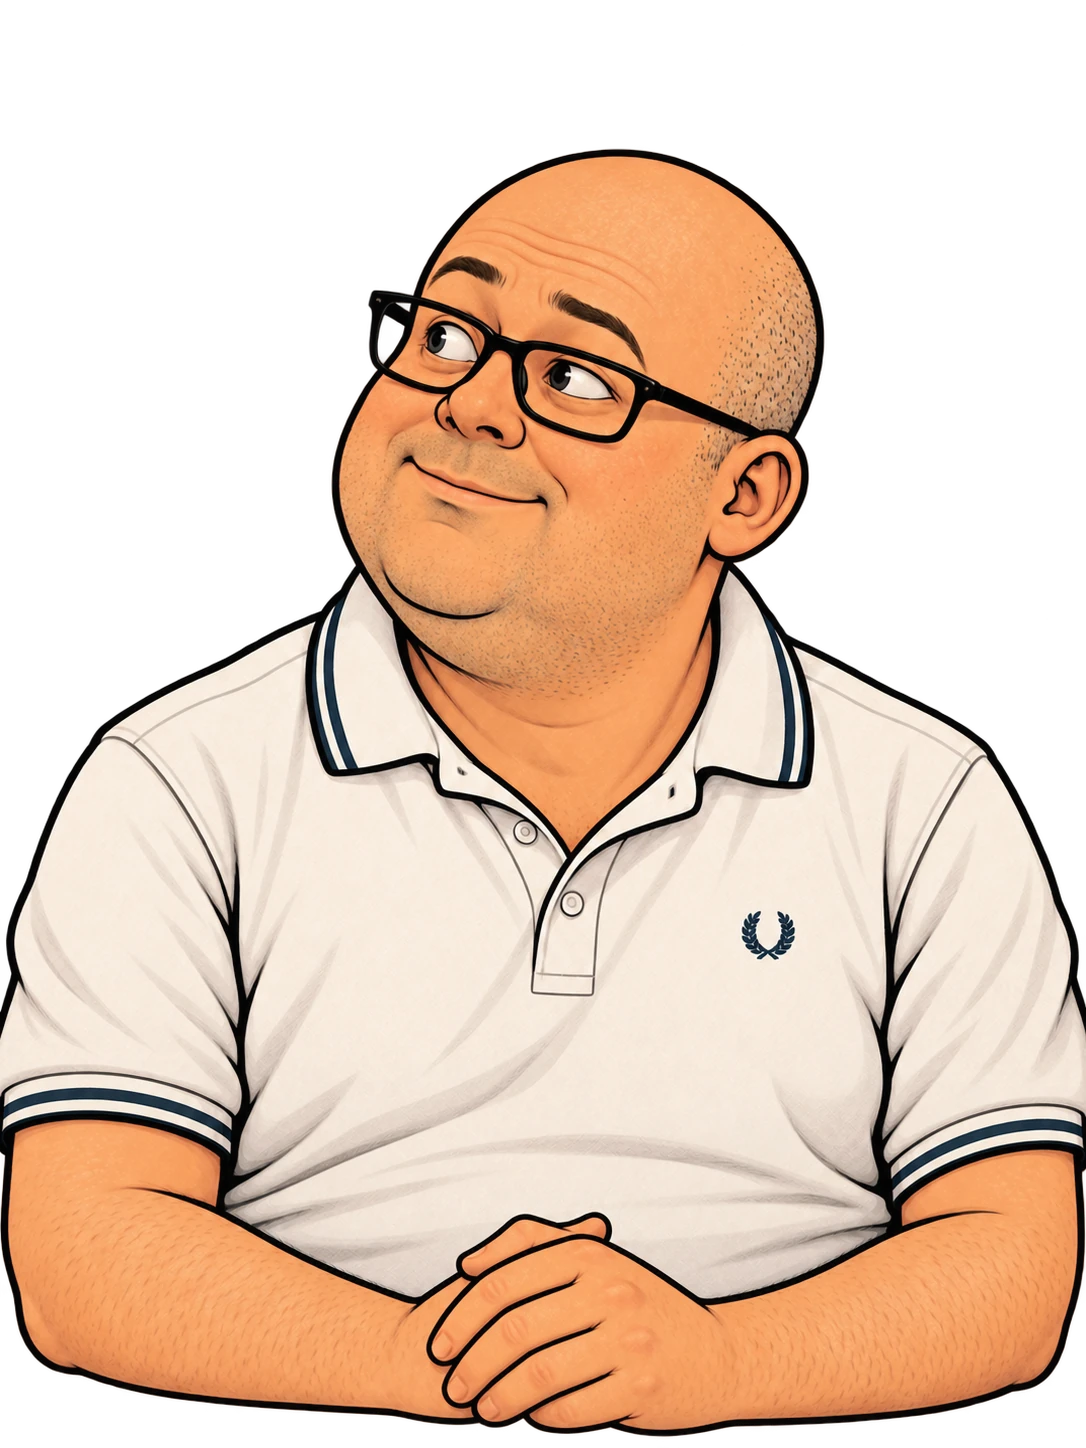
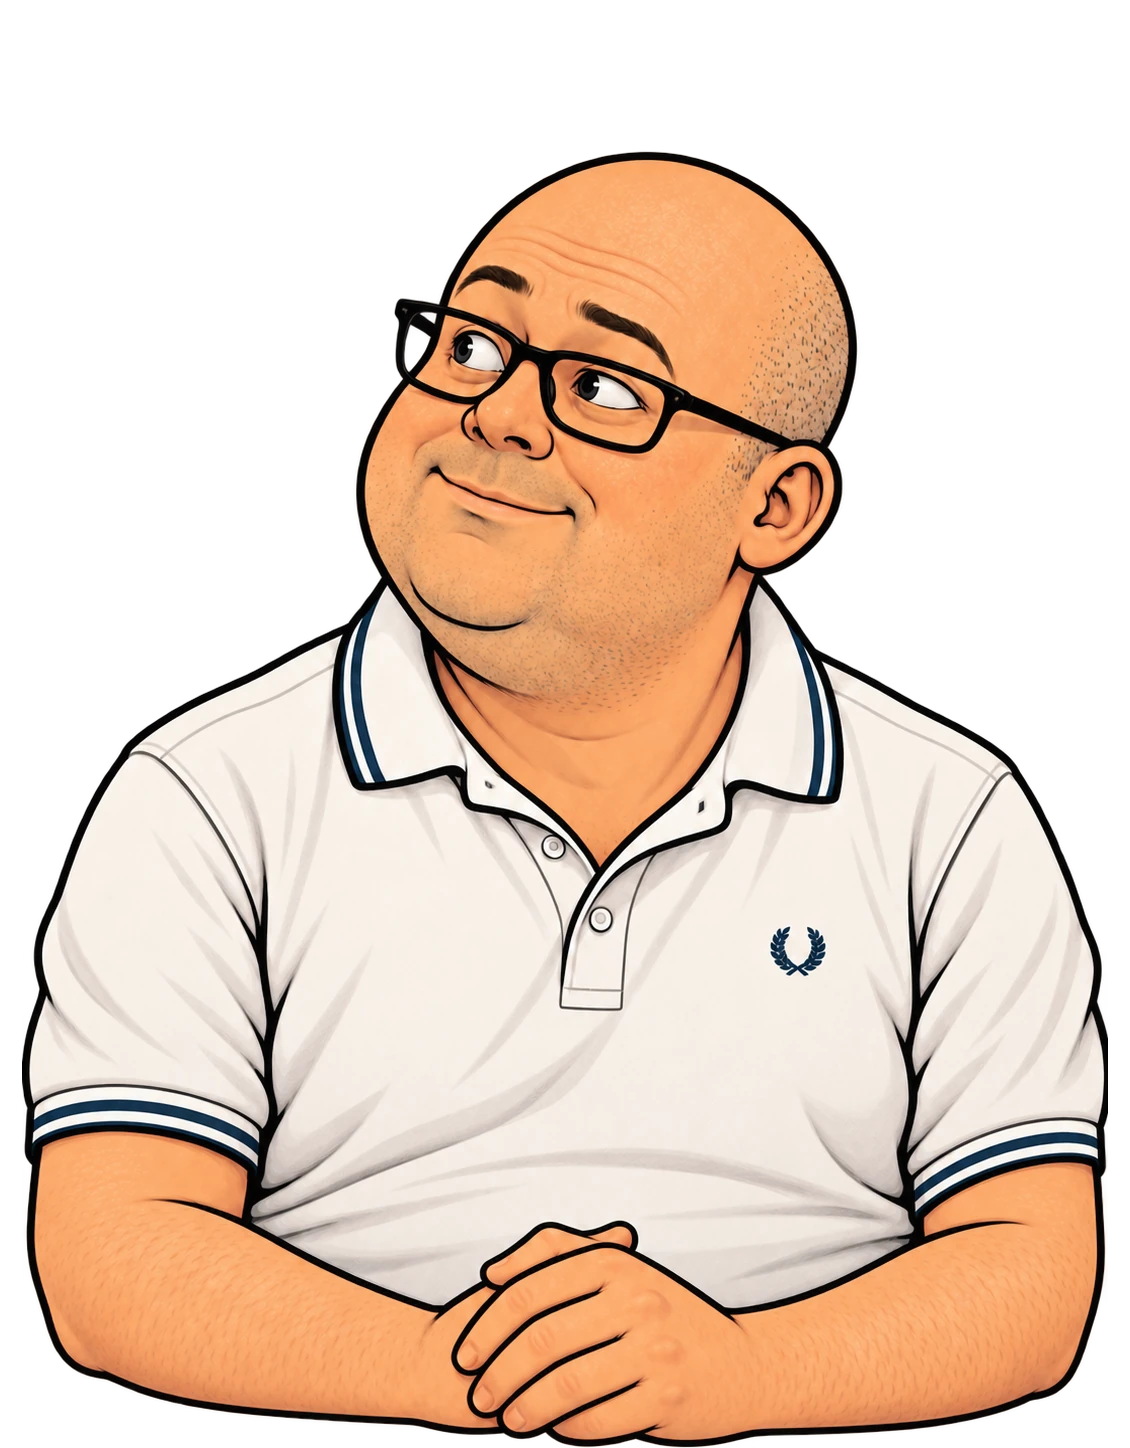
GAME-SP4.1G0A: replace Paul pleased WebP with recanvas v2; remove scale workaround

diff --git a/src/styles.css b/src/styles.css
@@ -654,17 +654,6 @@ button:active:not(:disabled) { transform: translateY(1px); }
   transform: scale(.94) !important;
 }
 
-/* GAME-SP4.1G0A: Paul's approved pleased image is tightly cut at both
- * side edges of its 1086×1448 transparent source. Give ONLY this expression
- * a restrained inset, anchored at the bottom with the other seated poses.
- * No changes to neutral/confused, David, Stephen or the common figure scale.
- * A future owner-approved re-canvas is needed if source-edge crop remains
- * conspicuous at review size. */
-#officeScreen .cast-seated #castPaul[data-seated-sprite="pleased"] .actor-portrait img {
-  transform-origin: center bottom;
-  transform: scale(.965) !important;
-}
-
 /* Listening actors retain the scene's colour treatment, but never fade
    their entire bodies: that made the bright office floor visible through them. */
 #officeScreen .cast-seated .cast-actor.is-listening {

diff --git a/src/game.js b/src/game.js
@@ -76,7 +76,7 @@
     Paul: {
       neutral: "./public/assets/generated/characters/paul-office-seated-neutral-v01.webp",
       confused: "./public/assets/generated/characters/paul-office-seated-confused-v01.webp?v=1",
-      pleased: "./public/assets/generated/characters/paul-office-seated-pleased-v01.webp?v=1"
+      pleased: "./public/assets/generated/characters/paul-office-seated-pleased-v01.webp?v=2"
     }
   };
 

diff --git a/docs/story/GAME-SP4.1G0A-PAUL-REGISTRATION.md b/docs/story/GAME-SP4.1G0A-PAUL-REGISTRATION.md
@@ -1,18 +1,25 @@
 # GAME-SP4.1G0A — Paul pleased arm clip correction
 
-**Baseline:** merged roadmap PR #61, `394aeb79c07ec4b051ea515dd5c1299a39832a21`. **Scope:** Chapter 1 Paul *pleased/satisfied* seated pose only.
+**Baseline:** PR #61 merge `394aeb79c07ec4b051ea515dd5c1299a39832a21`. Active draft PR #62 on `agent/game-sp41g0a-paul-pleased-registration`.
 
-## Cause and bounded first pass
+## Diagnosis and actual replacement
 
-The owner noticed a small flat/clipped edge on one side of Paul's arm when his happy/satisfied expression displays. The project's locked original `paul-office-seated-pleased-locked-v01(1).png` was inspected: **1086×1448 transparent pixels; nonzero alpha touches both lateral edges and the bottom**. That shows that the art itself is tightly cropped, not merely a clipped CSS stage. A CSS-only change cannot reconstruct any lost source pixels.
+Owner's first preview proved that the 3.5% CSS optical inset **did not restore the missing black outline on the left of Paul's arm**. This is an issue within the tightly cropped source image, not general desk geometry. That scale-only workaround has been **removed**.
 
-The current stage already has `overflow:visible` on the portrait wrapper and Paul is individually registered at `right:3.5%` as an actor with `width:30%`. The first-pass conservative correction is a **0.965 optical scale, origin centre-bottom**, only when `#castPaul[data-seated-sprite="pleased"]`. That gives the tightly bounded pose a little extra stage margin without shifting his feet or moving/altering the neutral and confused poses. The approved WebP and story expressions remain byte-for-byte unchanged.
+Owner supplied and explicitly requested trial integration of the new, corrected **Paul pleased / satisfied** image `paul_s_pleased_portrait_sticker.png`. This is the only reworked expression. For safe transparent margin without altering the supplied illustrated pixels, the full RGBA picture was placed on a slightly wider transparent canvas: original **1086×1448**, revised **1130×1448**, with **22 transparent pixels** added on each horizontal side. The bottom remains anchored as before. This conservatively preserves approximately the same on-stage apparent figure size as the previous 0.965 test while eliminating the CSS per-expression transform.
 
-**Owner visual gate:** compare happy Paul with neutral/confused at the same dialogue checkpoint; check his side arm against the office foreground desk and the stage edge. If the **hard crop inside the source** is still visible despite the inset, an owner-approved re-canvas of *only this one expression* is required (regenerate the missing fabric/arm edge while retaining face, polo, glasses and canonical proportions). Do not simply scale the entire cast or create a different-looking Paul.
+- **Approved-for-trial source staged to Drive:** [`paul-office-seated-pleased-recanvas-v02.png`](https://drive.google.com/file/d/15eJA-wLRl_lsWvCnYh1kgAYV894S_C7B/view)
[2 lines of base64/hex data omitted]
+- **Drive WebP backup:** [`paul-office-seated-pleased-recanvas-v02.webp`](https://drive.google.com/file/d/1gjyWIFzsPKL5yX_02Rtf_6abjNXu-oNZ/view).
+- **Versioned manifest:** `generated-assets/manifests/paul-office-seated-pleased-v01.json` revision 2, pointing to the new original.
+- **Cache bust:** `seatedExpressionSources.Paul.pleased` now requests `?v=2`, keeping other office sprites untouched.
 
-## Verification
+Asset materialisation's existing Google OIDC length issue #60 remains an unrelated pipeline defect; the verified production WebP is committed as a Git binary blob through the same proven source-backed path used by SP4.1F.
 
-- Exact-head `npm run verify` and Cloudflare preview must succeed.
-- Test switching neutral → pleased → neutral without expression ID/voice changes.
-- Inspect at desktop 1440×900, 1366×768, tablet and mobile; the existing top toolbar, white dialogue box, desk mask and speaker glow must be unaffected.
-- Keep draft PR until screenshot acceptance. Only then merge, and proceed to G0B song interludes.
+## Visual and functional gate
+
+- First compare Paul's pleased expression to neutral/confused, with particular attention to the **left outer upper-arm contour** and the right arm, not just the general sprite size. Confirm the newly illustrated outline actually reads cleanly against the office background.
+- Confirm seated desk/forearm alignment, Stephen and David stability, speaking highlight and scene dialogue controls. Check desktop and mobile crops.
+- Exact-head tests and Cloudflare preview required. **Keep PR #62 draft/unmerged until owner approves this specific replacement.** If the contour is still visually cut within the new artwork, further outpainting of that one sprite would be required; do not attempt another blind CSS zoom.
+- Once accepted, merge PR #62 and proceed to G0B song-panel fixes.

diff --git a/STATUS.md b/STATUS.md
@@ -2,12 +2,13 @@
 
 **Updated:** 19 October 2026
 
-## GAME-SP4.1G0A — Paul pleased sprite optical inset (in development)
+## GAME-SP4.1G0A — New Paul pleased image replacement (awaiting visual acceptance)
 
 - **Planning PR #61 merged:** `394aeb79c07ec4b051ea515dd5c1299a39832a21`; G0–G4 roadmap now on main. The wider Chapter 4 Ending C review remains pending.
 - **Active feature branch:** `agent/game-sp41g0a-paul-pleased-registration`. Inspected approved original Paul pleased PNG (1086×1448); source alpha reaches both lateral edges, so this is partly **source artwork crop**, not a generic stage overflow defect.
-- **Bounded first pass:** scale the seated pleased artwork to 96.5% around its bottom centre, without changing approved WebP, other Paul expressions, office geometry or story data. Regression tests cover expression-only selection and Back/Next.
-- **Human gate:** inspect current Cloudflare build for whether the arm now clears the edge naturally. If a hard cut remains in the actual asset, approve a dedicated recanvas instead of adding more transforms. No merge until owner visually accepts. **Next G0B:** shared optimistic/pessimistic song modal cleanup.
+- **Owner retest:** A 0.965 CSS scale did not fix missing left-side arm outline; scale workaround removed. New owner-supplied Paul pleased image staged as Drive PNG revision 2, with 22px transparent side safety margins. Corresponding optimised WebP replaces **only** the seated pleased file; `?v=2` cache-bust. Full source IDs, SHA-256 provenance and acceptance gate documented below.
+- **Human gate:** examine the revised pleased sprite at full game scale against neutral/confused. If the outline is now continuous, approve/merge PR #62. If still cut in the replacement art, re-edit that one source, not office-wide layout. G0B song modals follow.
+
 - Documentation: `docs/story/GAME-SP4.1G0A-PAUL-REGISTRATION.md`.
 
 ## CURRENT — GAME-SP4.1G0/G1/G2/G3/G4 Chapter and ending polish plan (19 October 2026)
